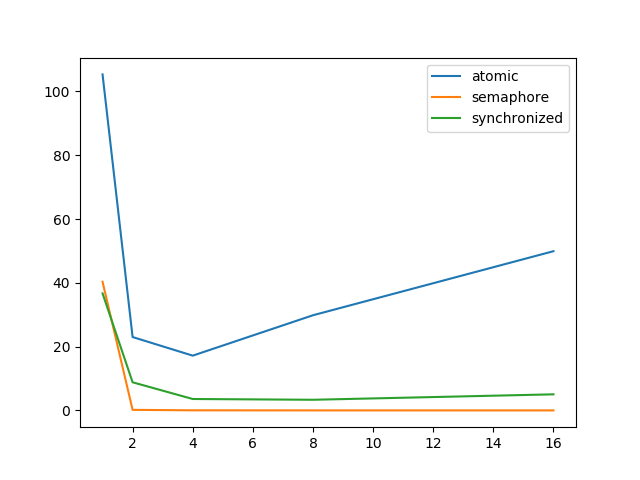
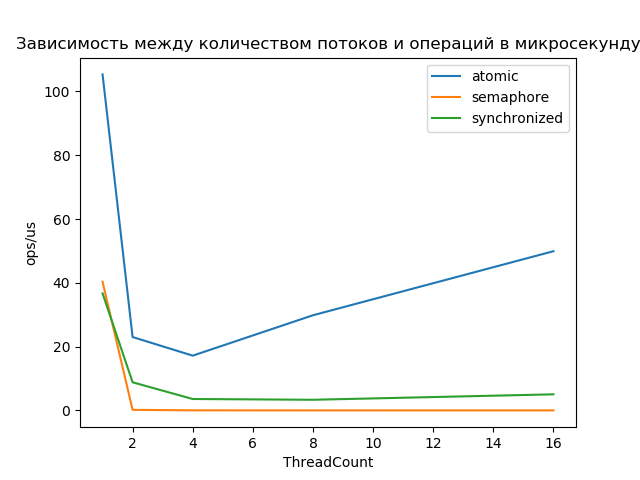
Plot images

Changed region(s): [[0.0312, 0.0625, 1.0, 0.125], [0.4375, 0.9375, 0.5938, 0.9688], [0.0312, 0.4688, 0.0625, 0.5625]]

diff --git a/plot_results.py b/plot_results.py
@@ -7,6 +7,9 @@ def plot_benchmark_results():
     df = pd.read_csv('benchmark_result.csv')
     df['Benchmark'] = df['Benchmark'].apply(lambda x: x.split('.')[4][:x.split('.')[4].find('Counter')])
     df = df.sort_values(by=['Threads'])
+    plt.ylabel(df['Unit'].unique()[0])
+    plt.xlabel('ThreadCount')
+    plt.title('Зависимость между количеством потоков и операций в микросекунду')
     for name in df['Benchmark'].unique():
         plt.plot(df[df.Benchmark == name]['Threads'], df[df.Benchmark == name]['Score'], label=name)
     plt.legend()
